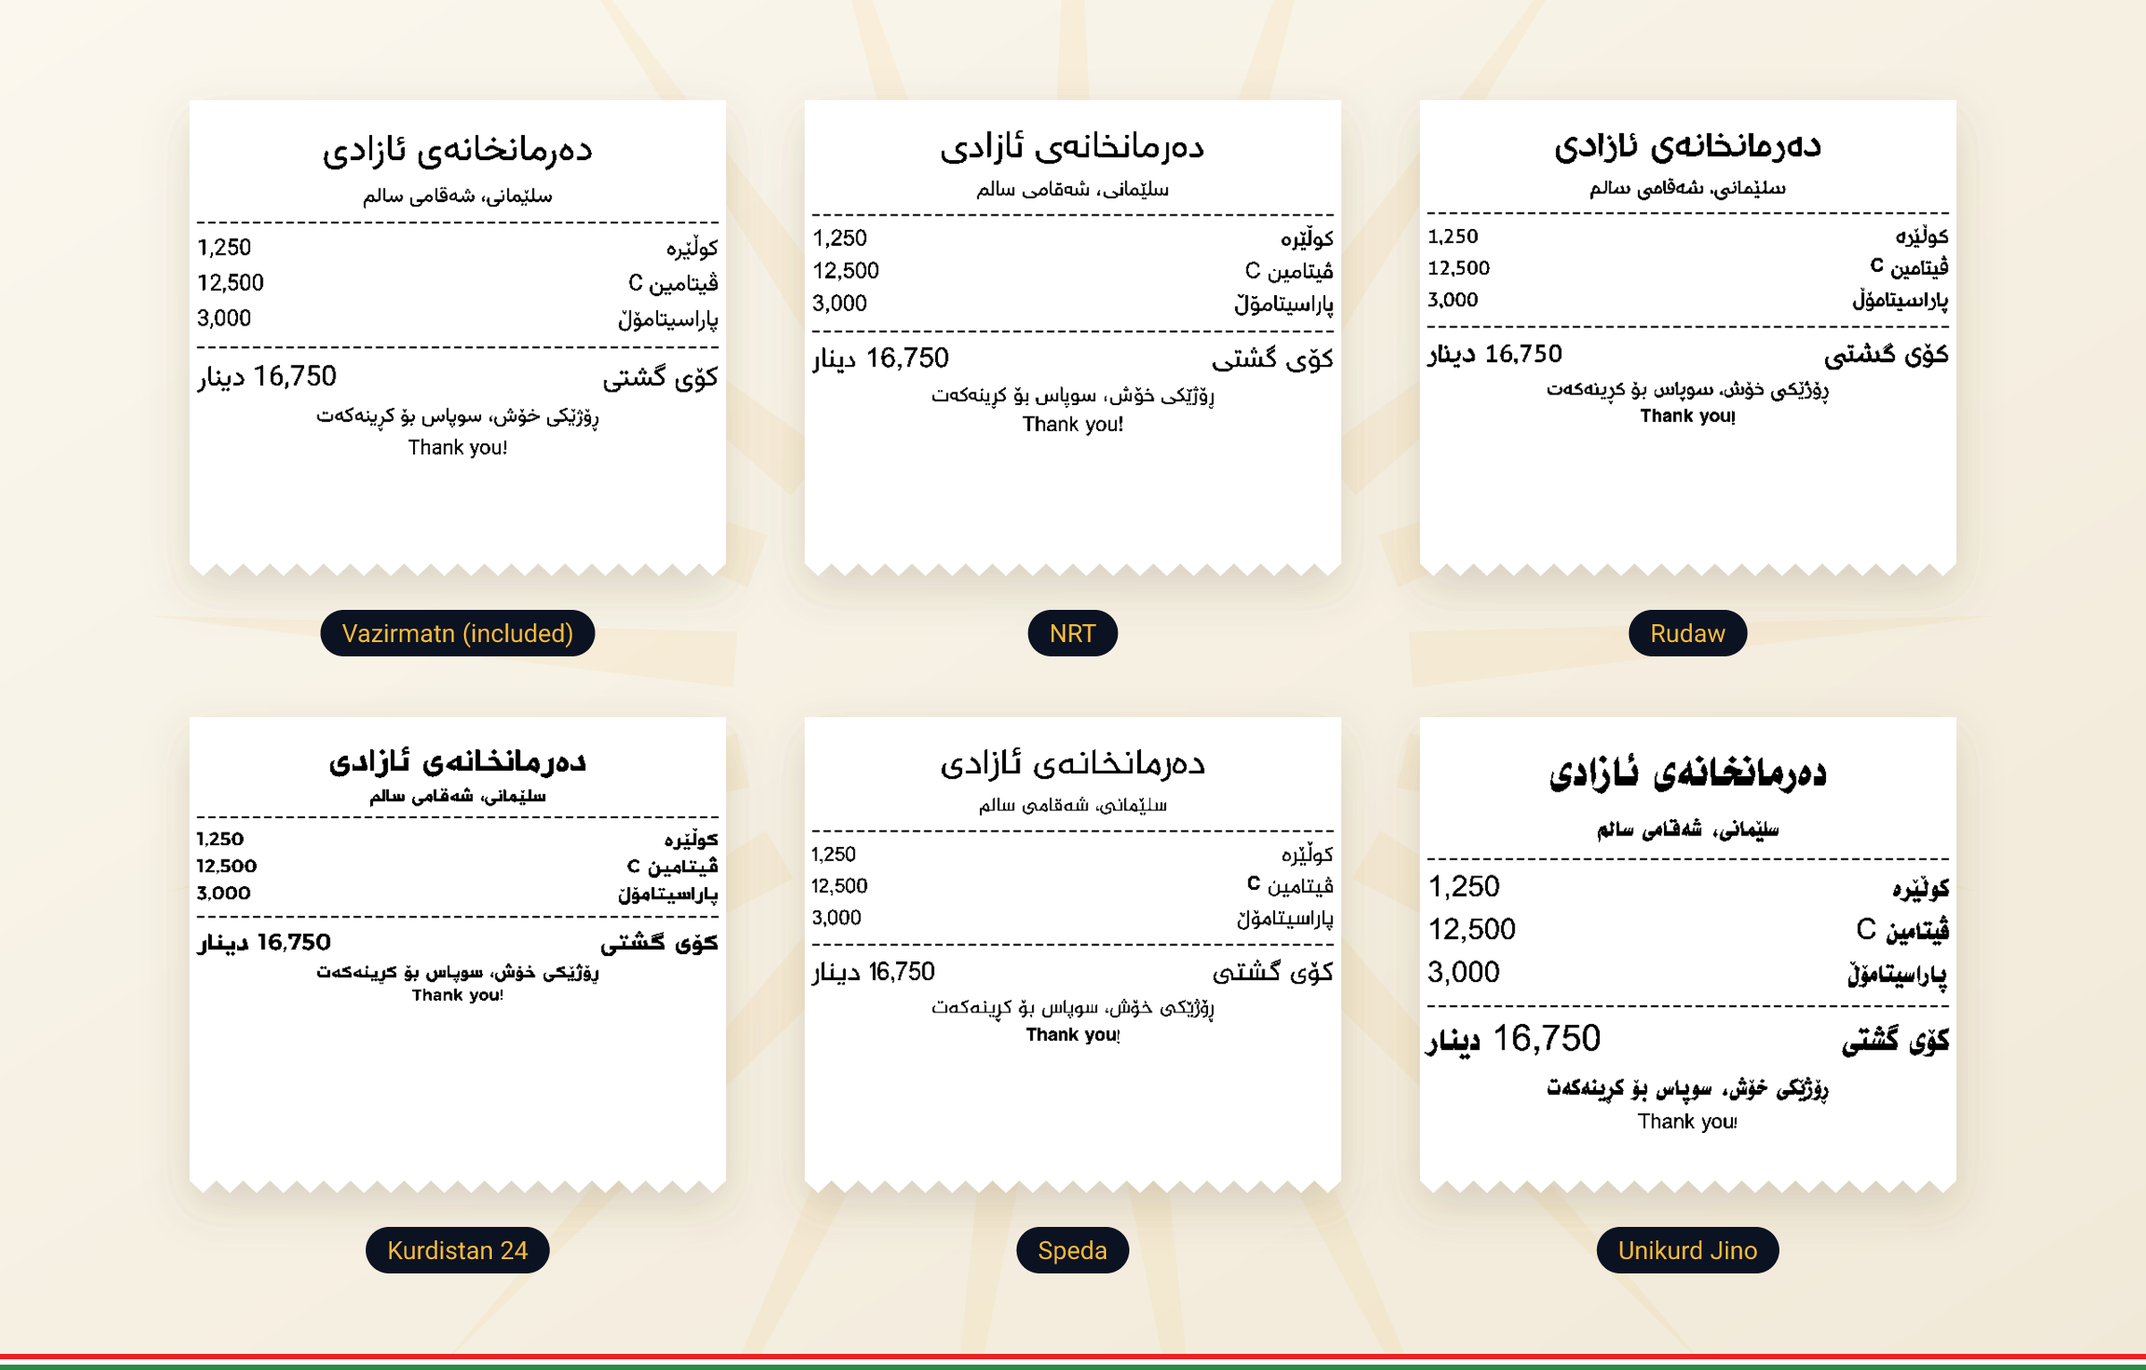
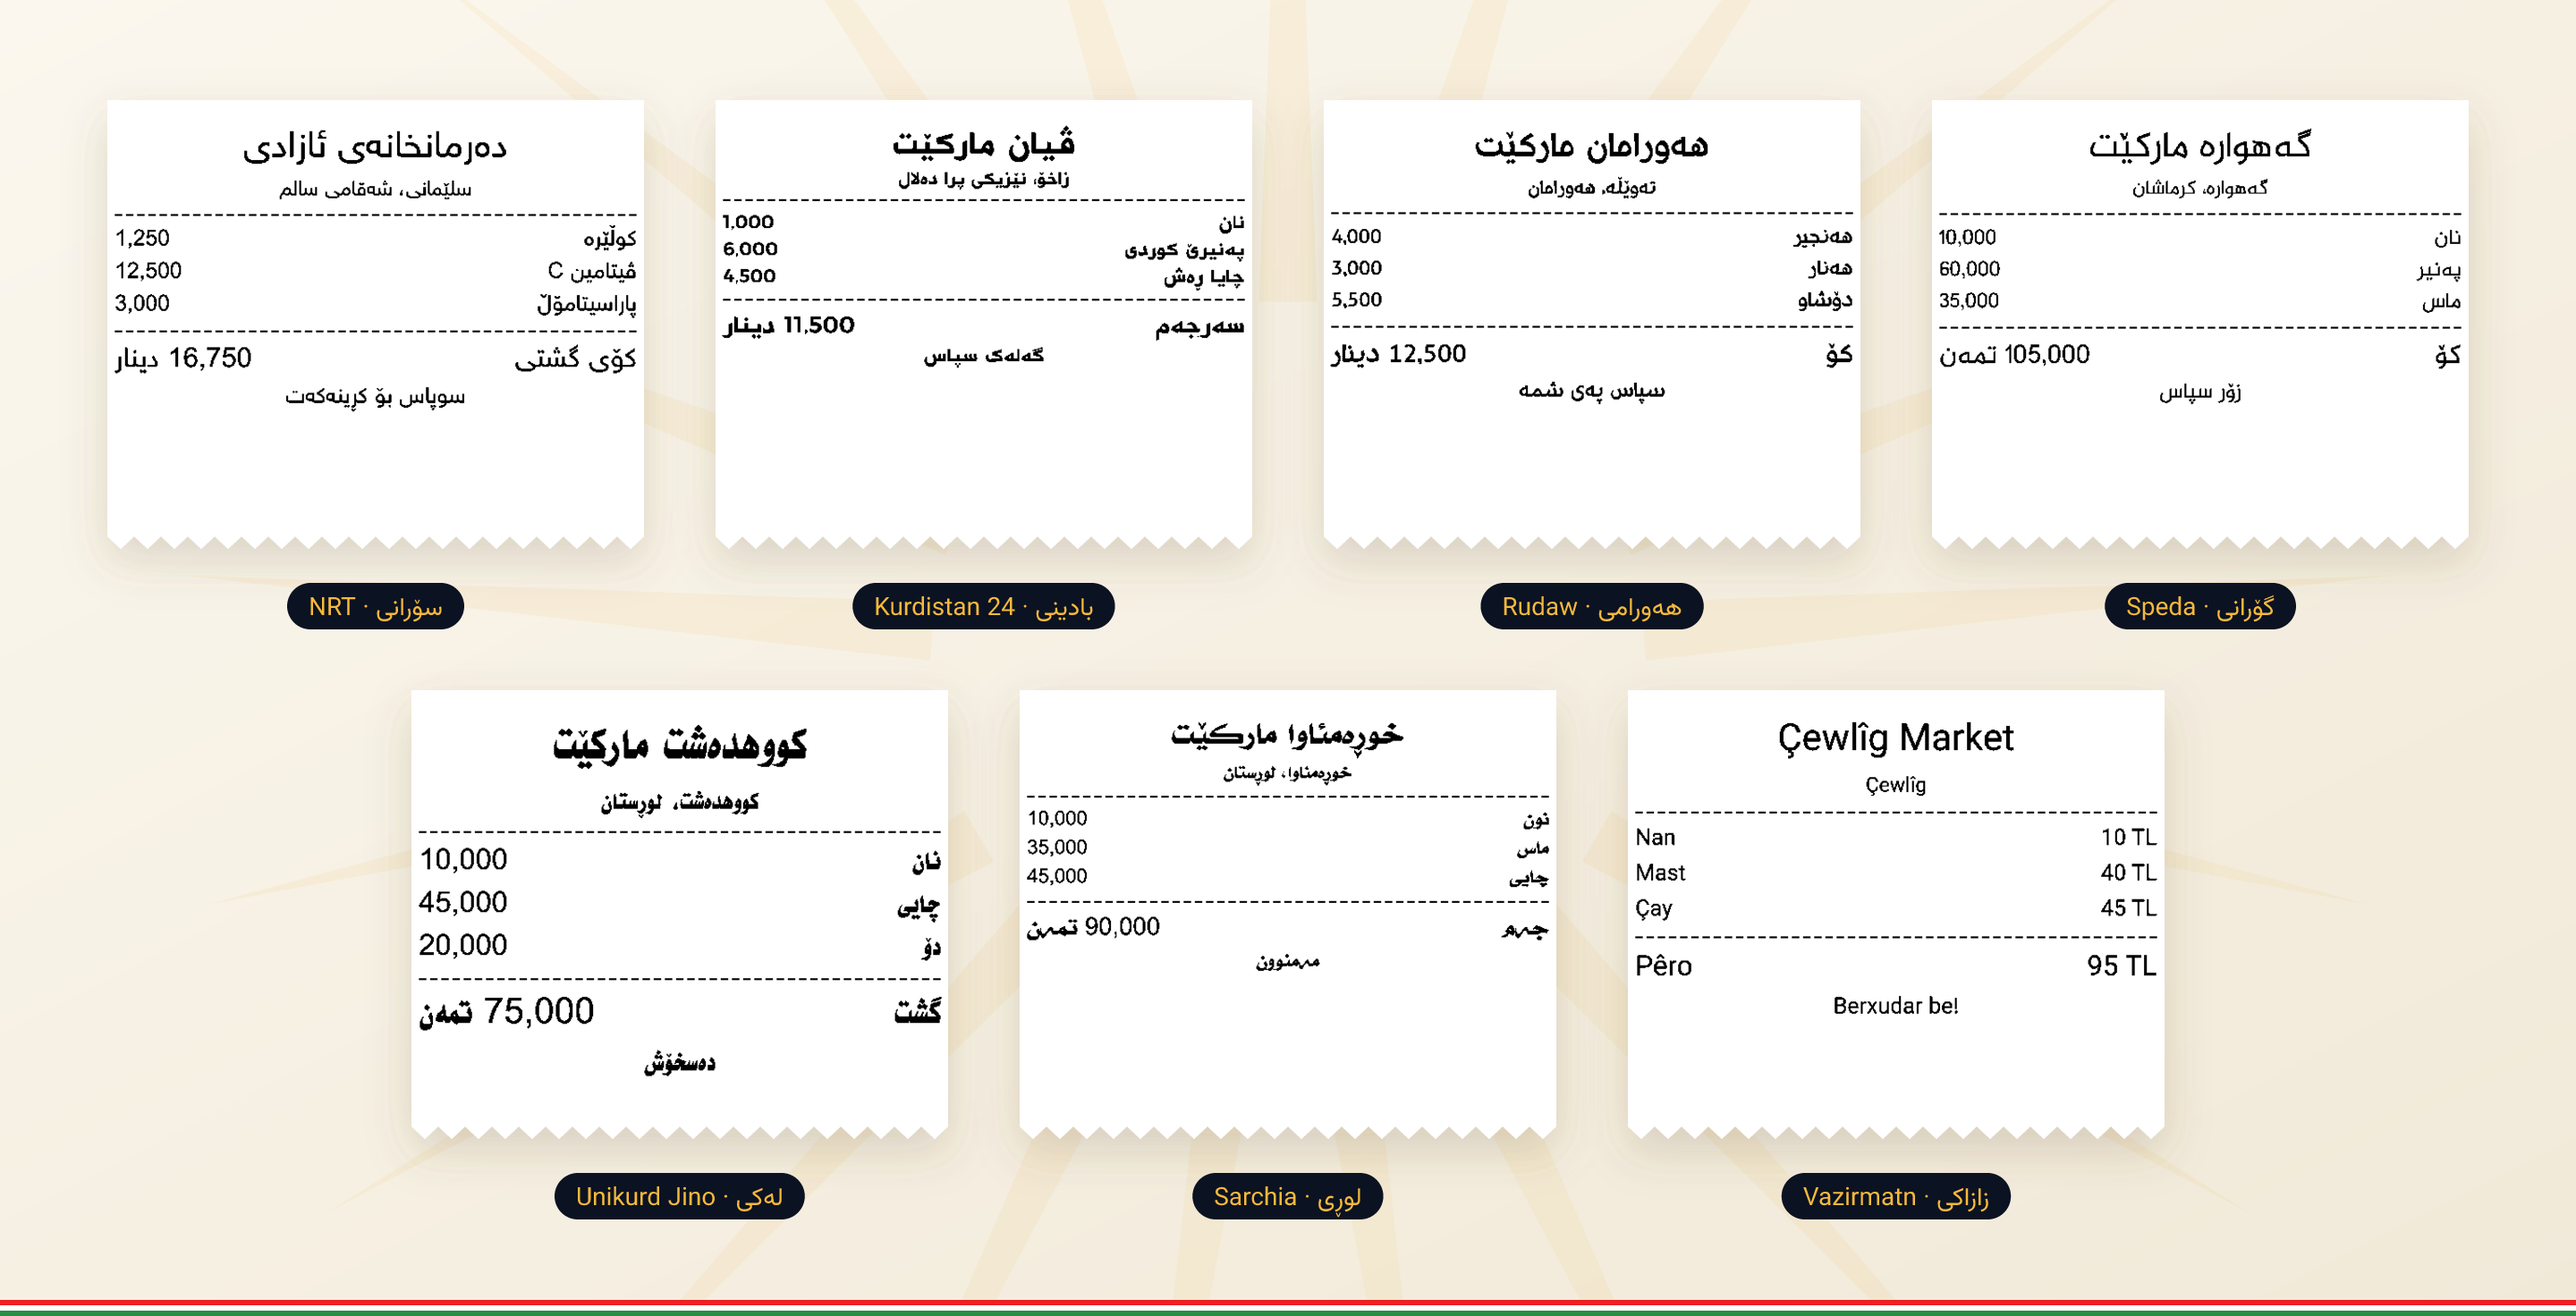
Show seven Kurdish dialects in the showcase

Changed region(s): [[0.0312, 0.0625, 0.9688, 0.9375], [0.4375, 0.5312, 0.5625, 0.5938], [0.25, 0.7812, 0.2812, 0.8125]]

diff --git a/README.md b/README.md
@@ -98,10 +98,11 @@ Kurdish text always looks right.
 
 ## Showcase
 
-The same receipt printed with six different fonts:
+Receipts in Sorani, Badini, Hawrami, Gorani, Laki, Luri and Zazaki, each
+printed by the package with a different font:
 
 <p align="center">
-  <img src="art/fonts.png" alt="The same receipt printed by kurdish-escpos in Vazirmatn, NRT, Rudaw, Kurdistan 24, Speda and Unikurd Jino" width="100%">
+  <img src="art/fonts.png" alt="Receipts in Sorani, Badini, Hawrami, Gorani, Laki, Luri and Zazaki printed by kurdish-escpos" width="100%">
 </p>
 
 ## Installation
